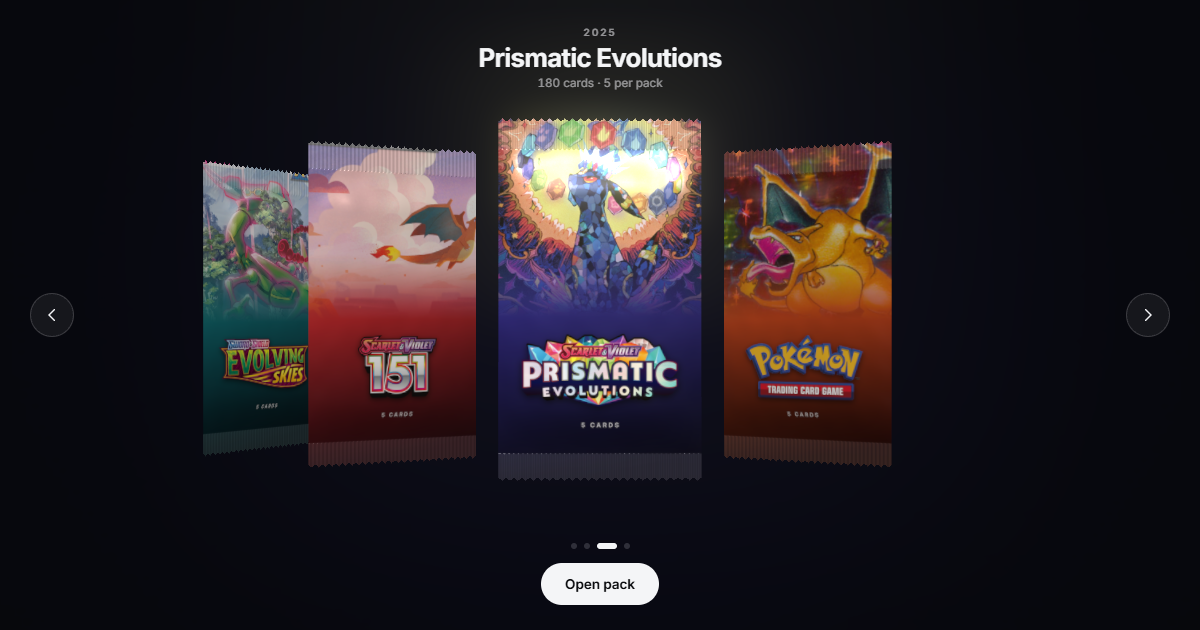
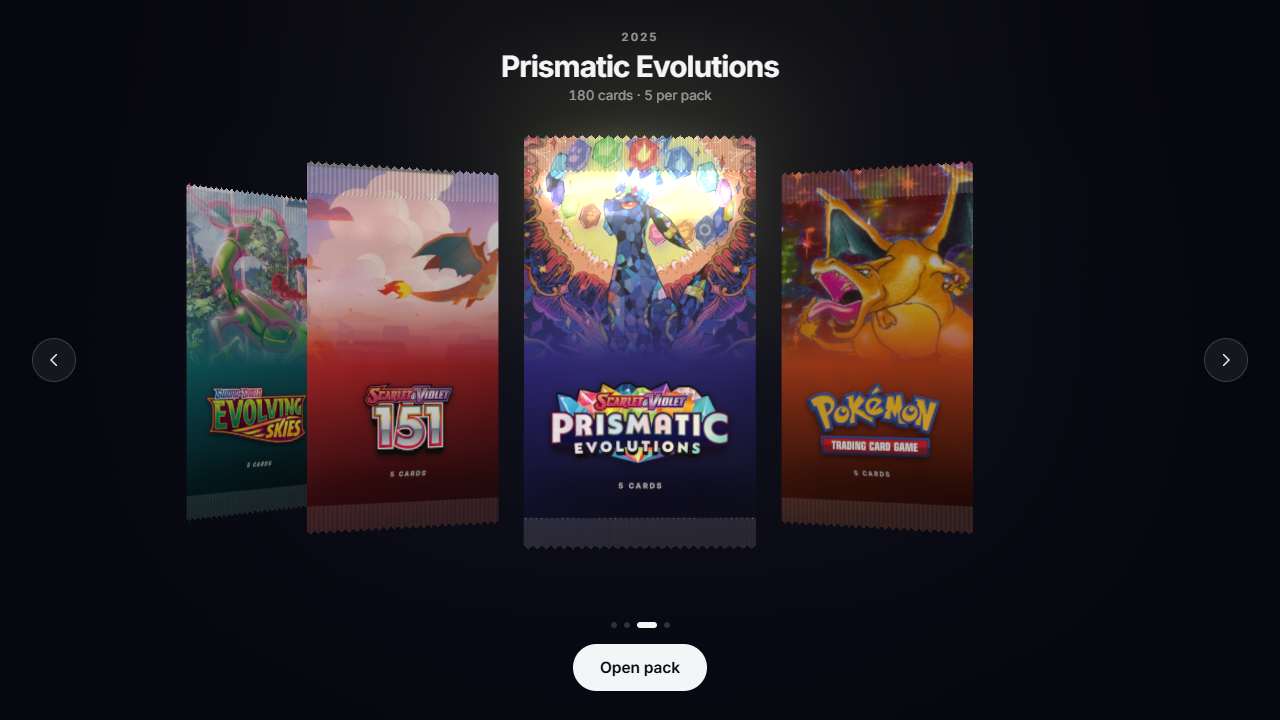
X player card in 16:9, compact layout for short frames

diff --git a/index.html b/index.html
@@ -10,8 +10,8 @@
 <meta name="twitter:title" content="Free Rip">
 <meta name="twitter:description" content="Rip a free pack right here. No wallet, no sign-up.">
 <meta name="twitter:player" content="https://winchxyz.github.io/x-rip-card/">
-<meta name="twitter:player:width" content="480">
-<meta name="twitter:player:height" content="600">
+<meta name="twitter:player:width" content="1280">
+<meta name="twitter:player:height" content="720">
 <meta name="twitter:image" content="https://winchxyz.github.io/x-rip-card/preview.png">
 <meta property="og:title" content="Free Rip">
 <meta property="og:description" content="Rip a free pack right here. No wallet, no sign-up.">
@@ -68,7 +68,7 @@
   #prev { left: max(2.5vw, 10px); } #next { right: max(2.5vw, 10px); }
   body[data-s="shelf"] .nav { opacity: 1; pointer-events: auto; }
   body[data-s="shelf"] .nav[disabled] { opacity: .25; pointer-events: none; }
-  @media (max-width: 560px) { .nav { display: none; } }
+  @media (max-width: 440px) { .nav { display: none; } }
 
   .hint { font-size: clamp(12px, 2vh, 15px); color: var(--dim); }
   .hint b { color: var(--ink); font-weight: 600; }
@@ -82,6 +82,17 @@
   #label .n { font-size: clamp(16px, 3vh, 24px); font-weight: 700; letter-spacing: -.022em; }
   #label .r { margin-top: .5vh; font-size: clamp(10px, 1.6vh, 12px); font-weight: 600; letter-spacing: .18em; text-transform: uppercase; color: var(--rc, var(--dim)); }
 
+  /* short landscape frame, e.g. the 16:9 player inside an X post */
+  @media (max-height: 420px) {
+    .ui.top { padding-top: 9px; } .ui.bottom { padding-bottom: 9px; }
+    .eyebrow { font-size: 9px; } .h1 { font-size: 17px; margin-top: 2px; } .sub { font-size: 10px; margin-top: 2px; }
+    #setSub { display: none; }
+    .dots { margin-bottom: 6px; } .dots i { width: 5px; height: 5px; } .dots i.on { width: 16px; }
+    button, .btn { height: 32px; font-size: 12px; padding: 0 1.3em; }
+    .nav { width: 34px; height: 34px; margin-top: -17px; } .nav svg { width: 14px; height: 14px; }
+    .hint { font-size: 11px; } .pips i { width: 16px; }
+    #label .n { font-size: 13px; } #label .r { font-size: 8.5px; margin-top: 1px; }
+  }
   #boot { position: fixed; inset: 0; display: grid; place-items: center; font-size: 13px; letter-spacing: .2em; text-transform: uppercase; color: var(--dim); transition: opacity .5s; pointer-events: none; }
   body:not([data-s="boot"]) #boot { opacity: 0; }
 </style>
